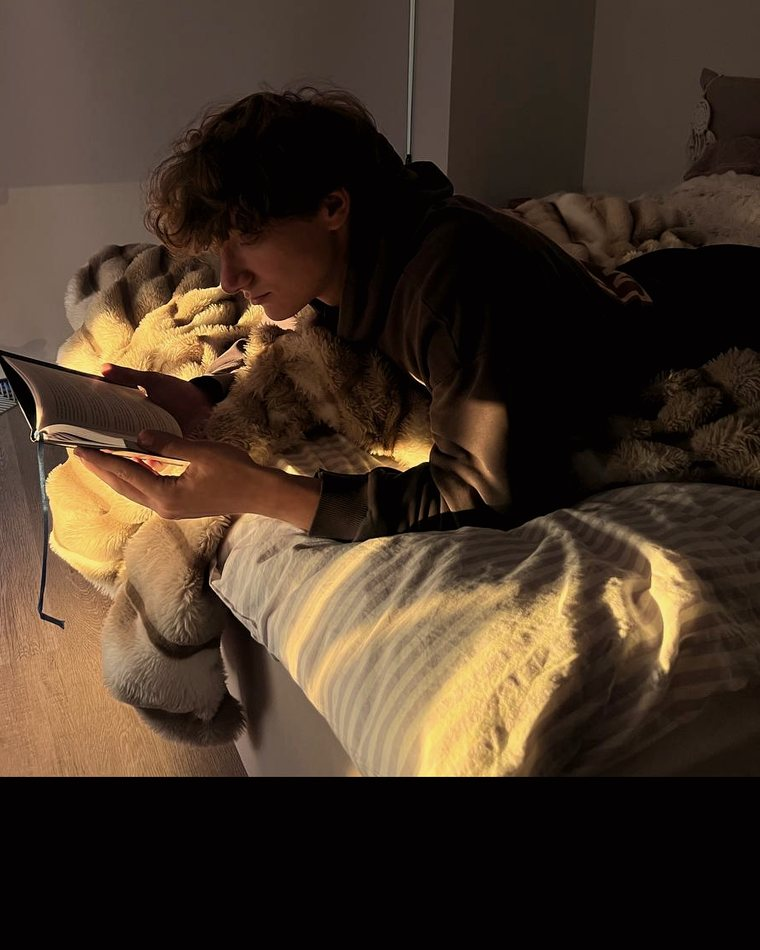
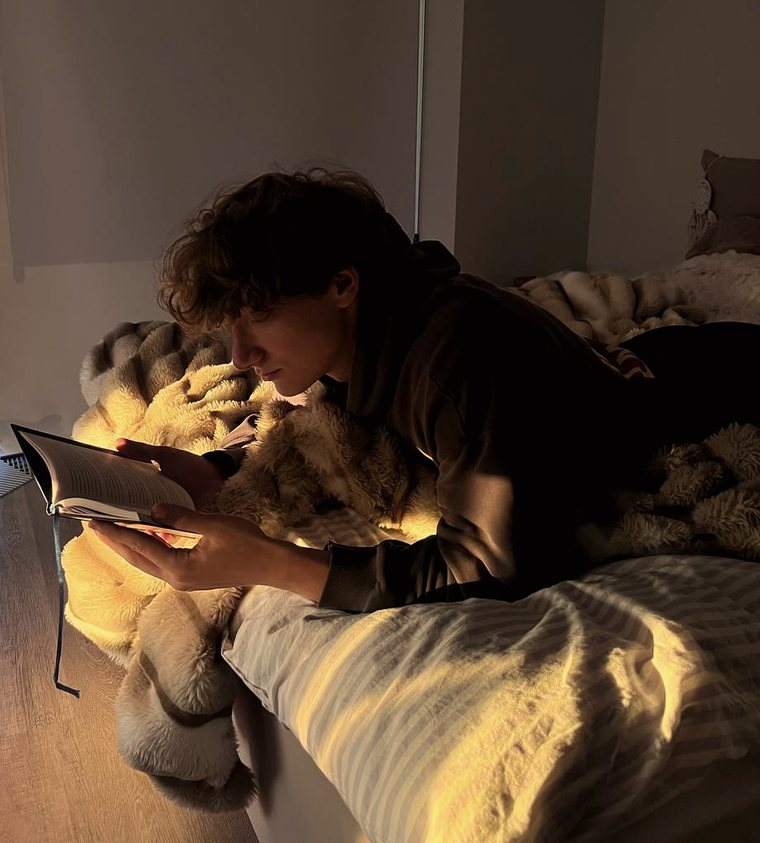
Add files via upload

diff --git a/index.html b/index.html
@@ -490,7 +490,7 @@ h2.h,h3.h{line-height:1.06}
 .who-media .who-ph{position:absolute;inset:0;width:100%;height:100%;min-height:0;aspect-ratio:auto;object-fit:cover;object-position:50% 25%;border:0}
 .who-badge{position:absolute;top:14px;left:14px;z-index:2;display:inline-flex;align-items:center;gap:8px;padding:8px 14px 8px 12px;border-radius:999px;background:rgba(12,10,8,.62);-webkit-backdrop-filter:blur(10px);backdrop-filter:blur(10px);border:1px solid rgba(254,137,49,.6);color:#fff;font-family:Oswald,sans-serif;font-weight:600;font-size:16px;letter-spacing:.03em;text-transform:uppercase;line-height:1;box-shadow:0 8px 24px rgba(0,0,0,.35)}
 .who-badge::before{content:"";width:8px;height:8px;border-radius:50%;background:#FE8931;box-shadow:0 0 10px #FE8931}
-.sticker{position:absolute;right:16px;bottom:18px;z-index:2;width:min(58%,290px);box-sizing:border-box;padding:18px 18px 16px;background:#FFE27A;color:#1B1408;font-family:Caveat,cursive;font-size:22px;font-weight:700;line-height:1.12;transform:rotate(-3deg);border-radius:4px;box-shadow:0 16px 34px rgba(0,0,0,.5)}
+.sticker{position:relative;align-self:center;margin:6px auto 22px !important;width:min(86%,380px);box-sizing:border-box;padding:18px 18px 16px;background:#FFE27A;color:#1B1408;font-family:Caveat,cursive;font-size:22px;font-weight:700;line-height:1.12;transform:rotate(-3deg);border-radius:4px;box-shadow:0 16px 34px rgba(0,0,0,.5)}
 .sticker::before{content:"";position:absolute;top:-10px;left:50%;width:84px;height:22px;transform:translateX(-50%) rotate(2deg);background:rgba(255,255,255,.55)}
 .sticker .st-end{display:block;margin-top:8px}
 .who-quote{position:absolute;left:14px;right:14px;bottom:14px;z-index:2;padding:14px 16px;border-radius:14px;background:rgba(12,10,8,.72);-webkit-backdrop-filter:blur(10px);backdrop-filter:blur(10px);border:1px solid rgba(255,255,255,.12);border-left:3px solid #FE8931;font-size:15px;line-height:1.45;color:#F2F2F2;font-style:italic}
@@ -546,7 +546,7 @@ h2.h,h3.h{line-height:1.06}
 @media (max-width:760px){
 .who-grid{grid-template-columns:1fr !important}
 .who-media{flex:none;min-height:0;aspect-ratio:4/5}
-.sticker{width:66%;font-size:19px;padding:14px 14px 12px;right:10px;bottom:12px}
+.sticker{width:88%;font-size:20px;padding:16px 16px 14px}
 .pq-grid{columns:1}.pq{margin-bottom:10px;padding:16px 18px}.pq blockquote{font-size:16px}
 .cs-row:not(.cs-row-p){grid-template-columns:1fr}.cs-media:not(.cs-tall){aspect-ratio:4/5}.rv-grid{grid-template-columns:1fr;gap:10px}.rv-col{gap:10px}
 .tf{padding:28px 20px}
@@ -555,6 +555,43 @@ h2.h,h3.h{line-height:1.06}
 }
 
 .tf p,.tf li,.tf-it,.story p,.cs-plaque p,.m-itog,.pq blockquote,.pq-end,.mission-t p,.who-quote,.cs-tabs label{font-family:'Inter Tight',sans-serif}
+.rv-txt{border-radius:0;border:0;background:#141414;padding:18px 20px 20px}
+.rv-sub{position:absolute;left:14px;top:52px;z-index:2;padding:6px 12px;border-radius:999px;background:rgba(12,10,8,.62);-webkit-backdrop-filter:blur(10px);backdrop-filter:blur(10px);font-size:12px;font-weight:600;color:#EDEDED;font-family:'Inter Tight',sans-serif}
+
+/* === правки 08.11 === */
+.b-cut{display:none}
+.r-q{position:absolute;margin:0;font-family:Caveat,cursive;font-weight:700;font-size:30px;line-height:1.05;color:#fff;text-shadow:0 2px 14px rgba(0,0,0,.6)}
+.r-q-1{left:0;top:73%;transform:rotate(-6deg)}
+.r-q-2{left:14%;top:88%;transform:rotate(-3deg);color:#FFB45A}
+.r-q::before{content:"";position:absolute;left:-14px;top:.35em;width:6px;height:6px;border-radius:50%;background:#FE8931}
+.sec:not(.in) .r-q{opacity:0}.sec.in .r-q-1{animation:fadeUp .7s ease-out .9s both}.sec.in .r-q-2{animation:fadeUp .7s ease-out 1.2s both}
+.note .note-res{font-weight:700;color:#fff;padding:14px 18px;border-radius:14px;background:rgba(254,137,49,.1);border:1px solid rgba(254,137,49,.35)}
+.note p b{color:#fff}
+.who > .who-media{margin-top:14px}
+@media (max-width:760px){
+.stage .b-bg-m{inset:0;top:0;width:100%;height:100%;object-fit:cover;object-position:50% 62%;transform:translateY(-17%) scale(1.32);transform-origin:50% 50%}
+.stage .b-cut{display:block;position:absolute;inset:0;width:100%;height:100%;object-fit:cover;object-position:50% 62%;z-index:3;pointer-events:none;transform:translateY(-17%) scale(1.32);transform-origin:50% 50%}
+.stage .b-shade{z-index:1}
+.stage .b-in{align-items:center !important;padding:18px 16px 24px !important}
+.stage .b-copy .b-title{order:1;position:relative;z-index:2;margin-top:4px;text-align:center !important;filter:drop-shadow(0 0 18px rgba(0,0,0,.95)) drop-shadow(0 4px 10px rgba(0,0,0,.8))}
+.stage .b-copy .b-title::before{content:"";position:absolute;inset:-18% -8% -10%;z-index:-1;background:radial-gradient(ellipse 60% 60% at 50% 50%,rgba(0,0,0,.72),rgba(0,0,0,0) 72%);pointer-events:none}
+.stage .b-copy .b-h{font-size:min(10.6cqw,54px)}
+.stage .b-badge{order:2;position:relative;z-index:4;margin-top:-2px}
+.stage .b-copy .b-sub{order:3;z-index:4;text-align:center !important;margin-left:auto;margin-right:auto;max-width:88cqw}
+.stage .mc{z-index:4;left:-3cqw;top:50%;width:34cqw}
+.rv-img .who-badge{font-size:12px;padding:6px 10px 6px 9px;top:10px;left:10px}
+.rv-img .rv-sub{top:40px;left:10px;font-size:10.5px;padding:4px 9px}
+.r-photos{gap:14px}
+.r-q{position:static;font-size:26px;text-align:center;transform:rotate(-3deg)}
+.r-q-2{transform:rotate(2deg)}
+.r-q::before{display:none}
+}
+
+/* 08.11 b */
+.who-grid > .who{padding-top:22px !important;padding-bottom:22px}
+.who-grid > .who > .num{display:block;align-self:flex-start;margin-top:0}
+.life-g figcaption .cap{font-family:Oswald,sans-serif;font-size:22px;font-weight:600;letter-spacing:.01em;line-height:1.05;color:#FE8931;margin-bottom:6px}
+.life-g figcaption{font-family:'Inter Tight',sans-serif}
 </style>
 <style>html{scroll-behavior:smooth}body{margin:0;background:#0A0A0A}</style>
 <script>
@@ -586,7 +623,8 @@ window.addEventListener('error',function(e){var t=e.target;if(!t||t.tagName!=='I
 <img class="b-blur" src="banner_bg3.jpg" alt="" aria-hidden="true">
 <div class="b-in">
 <img class="b-bg" src="banner_bg3.jpg" alt="" aria-hidden="true">
-<img class="b-bg-m" src="mob_bg.jpg" alt="" aria-hidden="true">
+<img class="b-bg-m" src="mob_bg2.jpg" alt="" aria-hidden="true">
+<img class="b-cut" src="mob_cut.webp" alt="" aria-hidden="true">
 <div class="orb o-r1" aria-hidden="true"></div>
 <div class="orb o-r2" aria-hidden="true"></div>
 <div class="orb o-d1" aria-hidden="true"></div>
@@ -604,7 +642,7 @@ window.addEventListener('error',function(e){var t=e.target;if(!t||t.tagName!=='I
 <img class="orb o-gift" src="gift_dl.svg" alt="" aria-hidden="true">
 <div class="b-shade" aria-hidden="true"></div>
 <div class="b-copy">
-<span class="b-badge">Лучшая ниша 2026 года</span>
+<span class="b-badge">Лучшая ниша 2026–27 года</span>
 <h1 class="b-title"><span class="b-h silver">Трафик</span><span class="b-h silver">на банки —</span><span class="b-h gold">это просто</span></h1>
 <p class="b-sub">Ты сможешь зарабатывать <b><span class="nw">от&nbsp;100–150к</span> рублей в&nbsp;месяц</b> на&nbsp;трафике без&nbsp;вложений и&nbsp;опыта.</p>
 </div>
@@ -692,13 +730,12 @@ window.addEventListener('error',function(e){var t=e.target;if(!t||t.tagName!=='I
 <!-- БЛОК 2 — ДЛЯ КОГО -->
 <section id="who" class="sec " data-k="s2">
 <div class="wrap stack">
-<h2 class="h h2"><span class="silver">Для кого подойдёт</span> <span class="gold">VA-Банк?</span></h2>
+<h2 class="h h2"><span class="silver">Для кого подойдёт</span> <span class="gold nw">VA-Банк?</span></h2>
 <div class="who-grid">
 <article class="card who">
-<div class="who-media"><img loading="lazy" decoding="async" class="who-ph" src="i_photo.jpg" alt="Ваня: до и после"><span class="who-badge">Как Ваня</span>
-<div class="sticker"><b>до этого:</b><br>— перевозчик в Озоне<br>— таксист эконома<br>— продавец в дилере<br>— продавец в Билайне<br><span class="st-end">короче, он всё перепробовал) а щас купил хорошую тачку, заработав деньги на трафике, с облегчением</span></div></div>
 <span class="h num">01</span>
 <p>Ты окончательно за%#ался в найме или в онлайне с клиентами и хочешь <span class="hl">вернуть контроль</span> над жизнью и свою систему заработка.</p>
+<div class="who-media"><img loading="lazy" decoding="async" class="who-ph" src="i_photo.jpg" alt="Ваня: до и после"><span class="who-badge">Как Ваня</span></div><div class="sticker"><b>до этого:</b><br>— перевозчик в Озоне<br>— таксист эконома<br>— продавец в дилере<br>— продавец в Билайне<br><span class="st-end">короче, он всё перепробовал) а щас купил хорошую тачку, заработав деньги на трафике, с облегчением</span></div>
 </article>
 <article class="card who who-4">
 <span class="h num">02</span>
@@ -726,9 +763,9 @@ window.addEventListener('error',function(e){var t=e.target;if(!t||t.tagName!=='I
 </div>
 </article>
 <article class="card who">
-<div class="who-media"><img loading="lazy" decoding="async" class="who-ph" src="v_photo.jpg" alt="Никич и Вова в кафе"><span class="who-badge">Как Вова</span></div>
 <span class="h num">03</span>
 <p>Ты уже пытался, пробовал схемы, платил за курсы и сливался, не дойдя до результата. <span class="hl">Но ещё не сдался.</span></p>
+<div class="who-media"><img loading="lazy" decoding="async" class="who-ph" src="v_photo.jpg" alt="Никич и Вова в кафе"><span class="who-badge">Как Вова</span></div>
 <div class="story">
 <span class="st-k">▪ Отправная точка</span>
 <p>Работал инструктором на Saborde, получал <b>максимум 60к в месяц</b>, параллельно волонтёрил и помогал отцу на стройке. В конце 11 класса решил попробовать себя в трафике.</p>
@@ -739,10 +776,10 @@ window.addEventListener('error',function(e){var t=e.target;if(!t||t.tagName!=='I
 </div>
 </article>
 <article class="card who">
-<div class="who-media"><img loading="lazy" decoding="async" class="who-ph" src="d_photo.jpg" alt="Денис и его выплаты"><span class="who-badge">Как Денис</span>
-<div class="who-quote">«Вообще не понимал, что такое финансовая вертикаль и РКО и главное — <b>как на этом зарабатывать</b>»</div></div>
 <span class="h num">04</span>
 <p>Ты добился небольшого результата с инфы в интернете, но так и не смог <span class="hl">масштабировать его.</span></p>
+<div class="who-media"><img loading="lazy" decoding="async" class="who-ph" src="d_photo.jpg" alt="Денис и его выплаты"><span class="who-badge">Как Денис</span>
+<div class="who-quote">«Вообще не понимал, что такое финансовая вертикаль и РКО и главное — <b>как на этом зарабатывать</b>»</div></div>
 <div class="who-shots"><img loading="lazy" decoding="async" src="w_denis_s.jpg" alt="Денис: чем занимался до финансовой вертикали"></div>
 </article>
 </div>
@@ -763,9 +800,9 @@ window.addEventListener('error',function(e){var t=e.target;if(!t||t.tagName!=='I
 <h2 class="h h2"><span class="silver">Результаты</span> <span class="gold">учеников</span></h2>
 <p class="lead">Переписки, выплаты, статистика и истории тех, кто уже прошёл путь в трафике.</p>
 </div>
-<div class="rv-grid"><div class="rv-col"><figure class="shot rv"><div class="rv-img"><img src="rv_ilya.jpg" alt="Илья и его статистика в LeadStore" loading="lazy"><span class="who-badge">Илья</span></div></figure><figure class="shot rv"><div class="rv-img"><img src="rv_bal.jpg" alt="Баланс 169 тысяч и отзыв: 140к за первые 2 недели" loading="lazy"></div></figure><figure class="shot rv"><div class="rv-img"><img src="rv_wauze.jpg" alt="Статистика и одобрения ученика WauzeX" loading="lazy"></div></figure></div><div class="rv-col"><figure class="shot rv"><div class="rv-img"><img src="rv_g1.jpg" alt="Статистика: 2,3 млн ₽ дохода" loading="lazy"></div><div class="rv-img"><img src="rv_g2.jpg" alt="Переписка: больше 200 ЦД и 3 млн за месяц" loading="lazy"></div><div class="rv-img"><img src="rv_g3.jpg" alt="Ученик купил BMW" loading="lazy"></div></figure></div><div class="rv-col"><figure class="shot rv"><div class="rv-img"><img src="rv_nastya_p.jpg" alt="Анастасия" loading="lazy"><span class="who-badge">Анастасия, 19 лет</span></div><div class="rv-img"><img src="rv_nastya_s.jpg" alt="История Анастасии: точка А и точка Б" loading="lazy"></div></figure><figure class="shot rv"><div class="rv-img"><img src="rv_azamat.jpg" alt="История Азамата: 300 тысяч в месяц" loading="lazy"></div></figure></div></div></div>
-</section></div>
-
+<div class="rv-grid"><div class="rv-col"><figure class="shot rv"><div class="rv-img"><img src="rv_ilya.jpg" alt="Илья и его статистика в LeadStore" loading="lazy"><span class="who-badge">Илья</span></div></figure><figure class="shot rv"><div class="rv-img"><img src="rv_bal.jpg" alt="Баланс 169 тысяч и отзыв: 140к за первые 2 недели" loading="lazy"></div></figure><figure class="shot rv"><div class="rv-img"><img src="rv_wauze.jpg" alt="Статистика и одобрения ученика WauzeX" loading="lazy"></div></figure></div><div class="rv-col"><figure class="shot rv"><div class="rv-img"><img src="rv_g1.jpg" alt="Статистика: 2,3 млн ₽ дохода" loading="lazy"></div><div class="rv-img"><img src="rv_g2.jpg" alt="Переписка: больше 200 ЦД и 3 млн за месяц" loading="lazy"></div><div class="rv-img"><img src="rv_g3.jpg" alt="Ученик купил BMW" loading="lazy"></div></figure></div><div class="rv-col"><figure class="shot rv"><div class="rv-img"><img src="rv_nastya_p.jpg" alt="Анастасия" loading="lazy"><span class="who-badge">Анастасия, 19 лет</span><span class="rv-sub">ученица летнего РКО Season</span></div><div class="story rv-txt"><span class="st-k">▪ Точка А</span><p>Найм: официант за 80–150 ₽/час без выходных, <b>получала 20–30 тыс. ₽ в месяц.</b></p><p>Начала углубляться в товарку — и на закупе очередной партии кроссовок за 50 тыс. ₽ её обманули. Ни кроссовок, ни денег. Купила обучение по РКО за 30 тыс. ₽ — оказалось некачественным. Прогорела.</p><span class="st-k">▪ Точка Б</span><p>С тест-драйва сделала <b>200 тыс. ₽ за 2 месяца.</b> На эти деньги взяла следующее обучение по РКО — и заработала с него <b>300 тыс. ₽ за 2 месяца.</b></p></div></figure><figure class="shot rv"><div class="rv-img"><img src="rv_azamat.jpg" alt="История Азамата: 300 тысяч в месяц" loading="lazy"></div></figure></div></div>
+</div>
+</section>
 
 <!-- БЛОК 3 — ПРИЧИНЫ -->
 <section class="sec " data-k="s3">
@@ -821,13 +858,15 @@ window.addEventListener('error',function(e){var t=e.target;if(!t||t.tagName!=='I
 </div>
 <div class="r-photos" aria-hidden="true">
 <img loading="lazy" decoding="async" class="r-ph r-ph-1" src="r_mirror.jpg" alt="">
-<img loading="lazy" decoding="async" class="r-ph r-ph-2" src="r_book.jpg" alt="">
+<p class="r-q r-q-1">«Никич, разве это всё,<br>что нужно знать?»</p>
+<p class="r-q r-q-2">«Может, есть ещё<br>какие-то проблемы?»</p>
 </div>
 </div>
 <div class="note">
-<p>Но это ещё не всё. Когда я создавал это обучение, мы с учениками и командой нашли главную проблему ВСЕХ, кто начинает путь в трафике на банки: <span class="hl">«Откуда брать трафик?»</span></p>
+<p>Но это ещё не всё. Когда я создавал это обучение, мы с учениками и командой нашли главную проблему ВСЕХ, кто начинает путь в трафике на банки: <span class="hl">«Откуда брать клиентов?»</span></p>
 <p class="note-h">И я придумал очень крутую систему обучения — её нет ни у кого на рынке.</p>
-<p>Обучение сделано так, чтобы поэтапно прийти к пониманию, откуда брать трафик, а также настроить всё так, чтобы со временем лиды приходили почти пассивно, но регулярно.</p>
+<p>Я выдаю <b>7 источников трафика</b>, чтобы у тебя ТОЧНО вышло. Но) даже если не выйдет — я и моя команда будем поставлять тебе трафик.</p>
+<p class="note-res">Итог: мы проведём тебя ОТ и ДО по трафику и закроем этот вопрос, чтобы клиенты были стабильными, а в худшем случае — будем поставлять их тебе сами. Варианта не заработать нет)</p>
 </div>
 </div>
 </section>
@@ -947,7 +986,7 @@ window.addEventListener('error',function(e){var t=e.target;if(!t||t.tagName!=='I
 </figure>
 </div>
 <div class="card creator">
-<span class="h creator-t">Создатель RKO Season и VA-БАНК</span>
+<span class="h creator-t">Создатель RKO Season и <span class="nw">VA-БАНК</span></span>
 <p>Это не курс про успешный успех, а система, где главное — твой результат. Строю свою онлайн-академию по трафику и веду за руку до первых <span class="hl">150–300к</span>.</p>
 </div>
 </div>
@@ -958,10 +997,7 @@ window.addEventListener('error',function(e){var t=e.target;if(!t||t.tagName!=='I
 <div class="wrap stack">
 <div class="head">
 <h2 class="h h2"><span class="gold">VA-Банк</span> <span class="silver">закрывает все нюансы</span></h2>
-<p class="lead">Когда я создавал это обучение, мы с учениками и командой нашли главную проблему ВСЕХ, кто начинает путь в трафике на банки: <b>«Откуда брать клиентов?»</b></p>
-<p class="lead">И я придумал очень крутую систему обучения — её нет ни у кого на рынке.</p>
-<p class="lead">Я выдаю <b>7 источников трафика</b>, чтобы у тебя ТОЧНО вышло. Но) даже если не выйдет — я и моя команда будем поставлять тебе трафик.</p>
-<p class="lead lead-res"><b>Итог: мы проведём тебя ОТ и ДО по трафику и закроем этот вопрос, чтобы клиенты были стабильными, а в худшем случае — будем поставлять их тебе сами. Варианта не заработать нет)</b></p>
+<p class="lead">Ты либо сам разбираешься в трафике, изучив <b>7 рабочих подходов</b>, либо я поставляю тебе трафик. Не получиться просто не может.</p>
 </div>
 <h3 id="modules" class="h h3" style="scroll-margin-top: 24px"><span class="silver">Системный выход на</span> <span class="gold">150–300к</span></h3>
 <div style="display: flex; flex-direction: column; gap: 10px">
@@ -1298,6 +1334,10 @@ window.addEventListener('error',function(e){var t=e.target;if(!t||t.tagName!=='I
 <span style="padding: 10px 18px; border-radius: 999px; background: rgba(255,255,255,0.06); border: 1px solid rgba(255,190,110,0.3); font-size: 14px; font-weight: 700">Связка «Редирект»</span>
 <span style="padding: 10px 18px; border-radius: 999px; background: rgba(255,255,255,0.06); border: 1px solid rgba(255,190,110,0.3); font-size: 14px; font-weight: 700">Связка «Нано-блогеры»</span>
 <span style="padding: 10px 18px; border-radius: 999px; background: rgba(255,255,255,0.06); border: 1px solid rgba(255,190,110,0.3); font-size: 14px; font-weight: 700">Связка «Тредс / ВК»</span>
+<span style="padding: 10px 18px; border-radius: 999px; background: rgba(255,255,255,0.06); border: 1px solid rgba(255,190,110,0.3); font-size: 14px; font-weight: 700">Связка «WorkZilla»</span>
+<span style="padding: 10px 18px; border-radius: 999px; background: rgba(255,255,255,0.06); border: 1px solid rgba(255,190,110,0.3); font-size: 14px; font-weight: 700">Чат с куратором</span>
+<span style="padding: 10px 18px; border-radius: 999px; background: rgba(255,255,255,0.06); border: 1px solid rgba(255,190,110,0.3); font-size: 14px; font-weight: 700">Скрипты команды Никича</span>
+<span style="padding: 10px 18px; border-radius: 999px; background: rgba(255,255,255,0.06); border: 1px solid rgba(255,190,110,0.3); font-size: 14px; font-weight: 700">Эфиры раз в 2 недели</span>
 </div>
 <div class="b-shots"><img loading="lazy" decoding="async" class="m-shot" src="module_b1.jpg" alt="Бонусный модуль «Продажи» в Telegram"><img loading="lazy" decoding="async" class="m-shot" src="module_b2.jpg" alt="Бонус «Связки» в Telegram"></div>
 </div>
@@ -1381,6 +1421,8 @@ window.addEventListener('error',function(e){var t=e.target;if(!t||t.tagName!=='I
 <span style="font-size: 13px; color: #8E8E8E">© 2026 VA-Банк</span>
 </div>
 </footer>
+
+</div>
 <script>
 (function(){
   var secs=[].slice.call(document.querySelectorAll('section[data-k]'));
